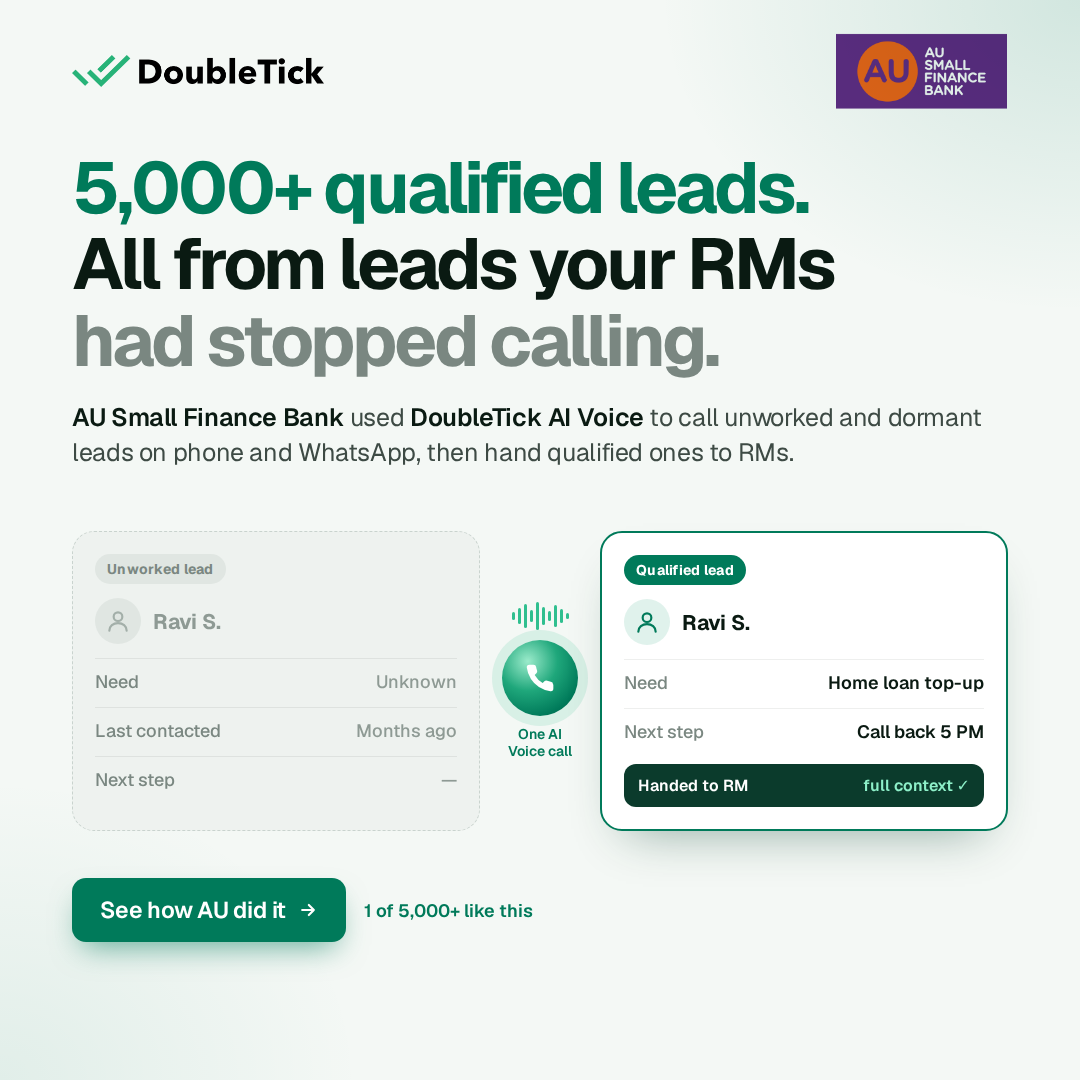
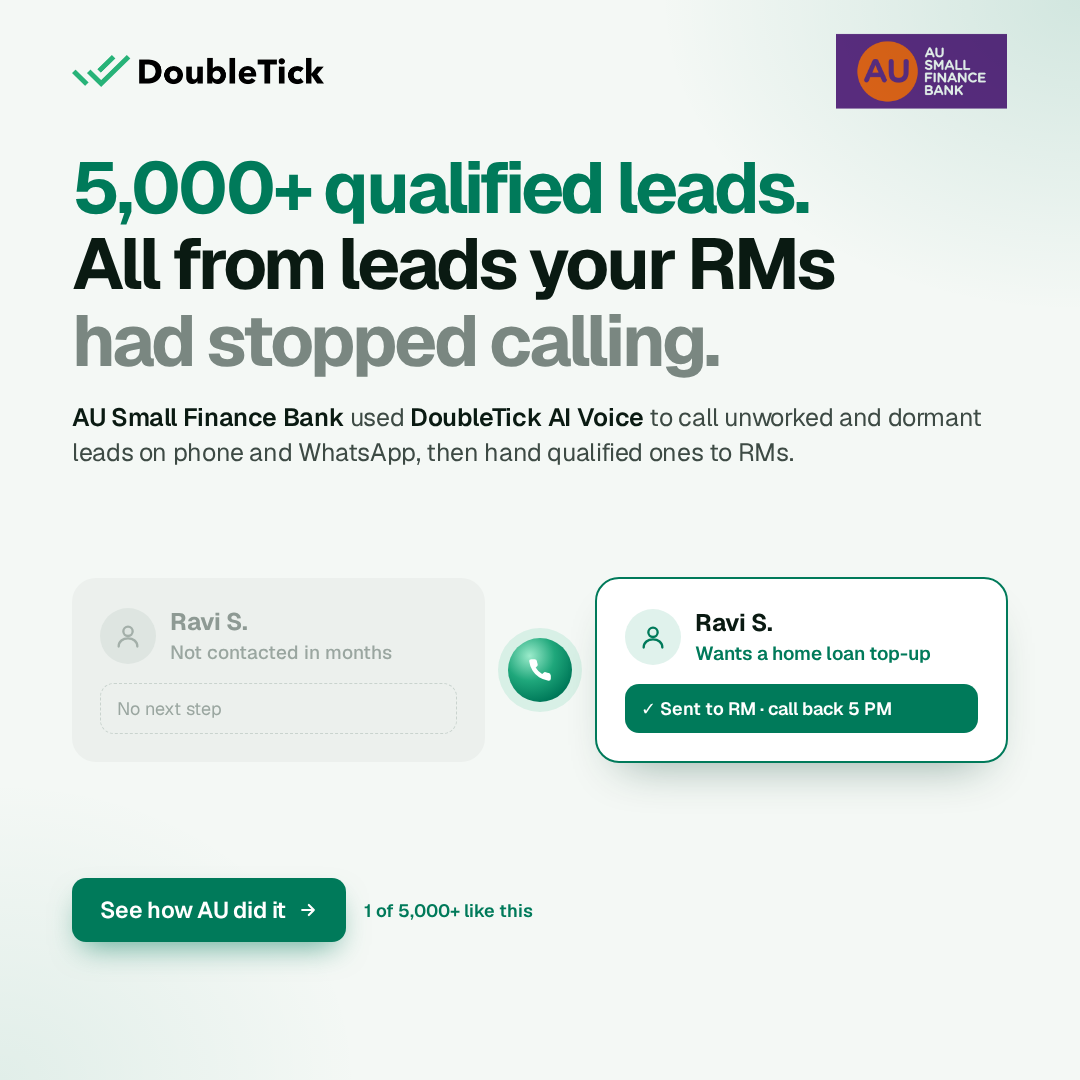
feat: simplify AU before/after lead visual
Claude-Session: https://claude.ai/code/session_013Hi5o4KgvuLbKTeGkStAKX

diff --git a/ads/doubletick-case-au-v6/index.html b/ads/doubletick-case-au-v6/index.html
@@ -20,30 +20,22 @@
   .sub { left: 72px; right: 72px; top: 400px; font-size: 25px; line-height: 1.38; color: var(--ink-2); letter-spacing: -0.015em; }
   .sub b { color: var(--ink); font-weight: 600; }
 
-  /* visual: the same lead, before and after one AI Voice call */
-  .vis { left: 72px; top: 516px; width: 936px; height: 330px; display: grid; grid-template-columns: 1fr 120px 1fr; align-items: center; }
-  .card { border-radius: 22px; padding: 22px; display: flex; flex-direction: column; gap: 14px; height: 300px; }
-  .before { background: #EEF2EF; border: 1px dashed #C9D3CE; color: #8E9A94; }
+  /* visual: same lead, before and after (simplified) */
+  .vis { left: 72px; top: 540px; width: 936px; height: 260px; display: grid; grid-template-columns: 1fr 110px 1fr; align-items: center; }
+  .card { border-radius: 24px; padding: 28px; display: flex; flex-direction: column; gap: 18px; }
+  .before { background: #ECF0ED; color: #8E9A94; }
   .after { background: #fff; border: 2px solid var(--green); box-shadow: 0 24px 48px -26px rgba(0,60,43,.45); }
-  .tag { align-self: flex-start; font-size: 14px; font-weight: 700; padding: 6px 12px; border-radius: 999px; letter-spacing: .02em; }
-  .before .tag { background: #E0E6E2; color: #7A8781; }
-  .after .tag { background: var(--green); color: #fff; }
-  .who { display: flex; align-items: center; gap: 12px; }
-  .av { width: 46px; height: 46px; border-radius: 50%; display: grid; place-items: center; }
-  .before .av { background: #E0E6E2; } .after .av { background: var(--soft); }
-  .nm { font-size: 21px; font-weight: 700; letter-spacing: -0.01em; }
-  .ln { display: flex; justify-content: space-between; font-size: 18px; padding-top: 11px; border-top: 1px solid rgba(10,26,18,.07); }
-  .ln span:first-child { color: var(--muted); font-weight: 500; }
-  .after .ln b { font-weight: 600; color: var(--ink); }
-  .before .ln b { font-weight: 500; }
-  .rm { margin-top: auto; display: flex; justify-content: space-between; background: #0B3B2C; color: #fff; border-radius: 12px; padding: 11px 14px; font-size: 16px; font-weight: 600; }
-  .rm b { color: #8EF0C9; font-weight: 600; }
-  .mid { display: flex; flex-direction: column; align-items: center; gap: 10px; }
-  .orb { width: 76px; height: 76px; border-radius: 50%; display: grid; place-items: center;
+  .who { display: flex; align-items: center; gap: 14px; }
+  .av { width: 56px; height: 56px; border-radius: 50%; display: grid; place-items: center; flex: none; }
+  .before .av { background: #DEE5E1; } .after .av { background: var(--soft); }
+  .nm { font-size: 24px; font-weight: 700; letter-spacing: -0.01em; }
+  .st { font-size: 19px; font-weight: 500; margin-top: 3px; }
+  .before .st { color: #9AA6A0; } .after .st { color: var(--green); font-weight: 600; }
+  .rm { display: flex; align-items: center; gap: 10px; background: var(--green); color: #fff; border-radius: 14px; padding: 13px 16px; font-size: 18px; font-weight: 600; }
+  .gone { font-size: 18px; color: #9AA6A0; padding: 13px 16px; border-radius: 14px; border: 1px dashed #C9D3CE; }
+  .mid { display: grid; place-items: center; }
+  .arr { width: 64px; height: 64px; border-radius: 50%; display: grid; place-items: center;
     background: radial-gradient(circle at 34% 28%, #9BEBCB 0%, #1FA77B 40%, #007A5A 75%, #005A42 100%); box-shadow: 0 0 0 10px rgba(47,191,143,.14); }
-  .wv { display: flex; align-items: center; gap: 3px; height: 28px; }
-  .wv b { width: 3px; border-radius: 2px; background: var(--mint); display: block; }
-  .mid .l { font-size: 14px; font-weight: 600; color: var(--green); text-align: center; line-height: 1.25; }
   .cta { left: 72px; top: 878px; display: flex; align-items: center; gap: 18px; }
   .btn { background: var(--green); color: #fff; font-size: 23px; font-weight: 600; letter-spacing: -0.01em; padding: 17px 28px; border-radius: 14px;
     display: flex; align-items: center; gap: 12px; box-shadow: 0 14px 30px -10px rgba(0,122,90,.6); }
@@ -57,23 +49,13 @@
 
   <div class="vis">
     <div class="card before">
-      <span class="tag">Unworked lead</span>
-      <div class="who"><span class="av"><svg width="26" height="26" viewBox="0 0 24 24" fill="none" stroke="#A3AFA9" stroke-width="2" stroke-linecap="round"><circle cx="12" cy="8" r="4"/><path d="M4 21c0-4.4 3.6-7 8-7s8 2.6 8 7"/></svg></span><span class="nm">Ravi S.</span></div>
-      <div class="ln"><span>Need</span><b>Unknown</b></div>
-      <div class="ln"><span>Last contacted</span><b>Months ago</b></div>
-      <div class="ln"><span>Next step</span><b>—</b></div>
+      <div class="who"><span class="av"><svg width="28" height="28" viewBox="0 0 24 24" fill="none" stroke="#A3AFA9" stroke-width="2" stroke-linecap="round"><circle cx="12" cy="8" r="4"/><path d="M4 21c0-4.4 3.6-7 8-7s8 2.6 8 7"/></svg></span><div><div class="nm">Ravi S.</div><div class="st">Not contacted in months</div></div></div>
+      <div class="gone">No next step</div>
     </div>
-    <div class="mid">
-      <div class="wv"><b style="height:8px"></b><b style="height:16px"></b><b style="height:24px"></b><b style="height:12px"></b><b style="height:28px"></b><b style="height:18px"></b><b style="height:10px"></b><b style="height:22px"></b><b style="height:14px"></b><b style="height:6px"></b></div>
-      <div class="orb"><svg width="32" height="32" viewBox="0 0 24 24" fill="#fff"><path d="M22 16.9v3a2 2 0 0 1-2.2 2 19.8 19.8 0 0 1-8.6-3.1 19.5 19.5 0 0 1-6-6A19.8 19.8 0 0 1 2.1 4.2 2 2 0 0 1 4.1 2h3a2 2 0 0 1 2 1.7c.1.9.4 1.8.7 2.7a2 2 0 0 1-.5 2.1L8 9.8a16 16 0 0 0 6 6l1.3-1.3a2 2 0 0 1 2.1-.4c.9.3 1.8.6 2.7.7a2 2 0 0 1 1.7 2z"/></svg></div>
-      <div class="l">One AI<br/>Voice call</div>
-    </div>
+    <div class="mid"><div class="arr"><svg width="26" height="26" viewBox="0 0 24 24" fill="#fff"><path d="M22 16.9v3a2 2 0 0 1-2.2 2 19.8 19.8 0 0 1-8.6-3.1 19.5 19.5 0 0 1-6-6A19.8 19.8 0 0 1 2.1 4.2 2 2 0 0 1 4.1 2h3a2 2 0 0 1 2 1.7c.1.9.4 1.8.7 2.7a2 2 0 0 1-.5 2.1L8 9.8a16 16 0 0 0 6 6l1.3-1.3a2 2 0 0 1 2.1-.4c.9.3 1.8.6 2.7.7a2 2 0 0 1 1.7 2z"/></svg></div></div>
     <div class="card after">
-      <span class="tag">Qualified lead</span>
-      <div class="who"><span class="av"><svg width="26" height="26" viewBox="0 0 24 24" fill="none" stroke="#007A5A" stroke-width="2" stroke-linecap="round"><circle cx="12" cy="8" r="4"/><path d="M4 21c0-4.4 3.6-7 8-7s8 2.6 8 7"/></svg></span><span class="nm">Ravi S.</span></div>
-      <div class="ln"><span>Need</span><b>Home loan top-up</b></div>
-      <div class="ln"><span>Next step</span><b>Call back 5 PM</b></div>
-      <div class="rm"><span>Handed to RM</span><b>full context ✓</b></div>
+      <div class="who"><span class="av"><svg width="28" height="28" viewBox="0 0 24 24" fill="none" stroke="#007A5A" stroke-width="2" stroke-linecap="round"><circle cx="12" cy="8" r="4"/><path d="M4 21c0-4.4 3.6-7 8-7s8 2.6 8 7"/></svg></span><div><div class="nm">Ravi S.</div><div class="st">Wants a home loan top-up</div></div></div>
+      <div class="rm">✓ Sent to RM · call back 5 PM</div>
     </div>
   </div>
 
